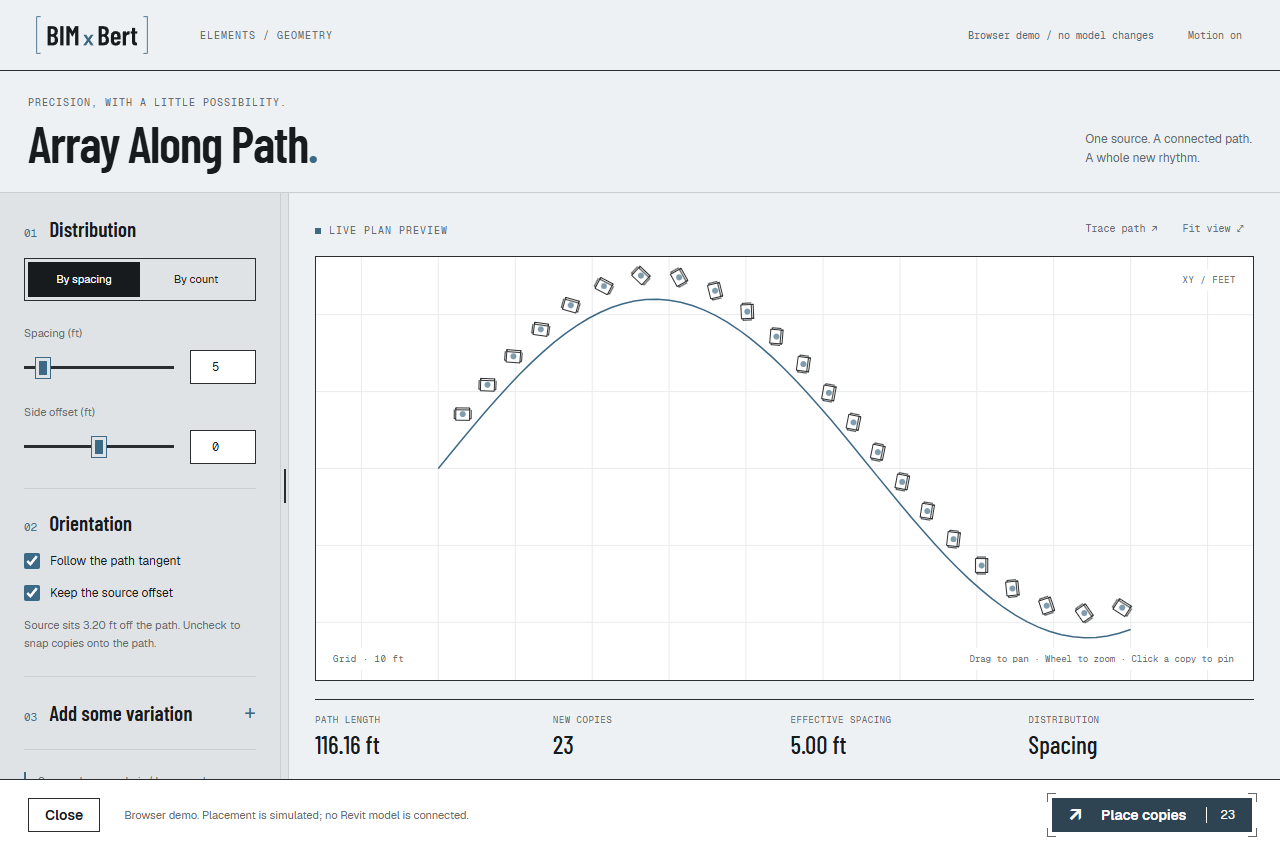
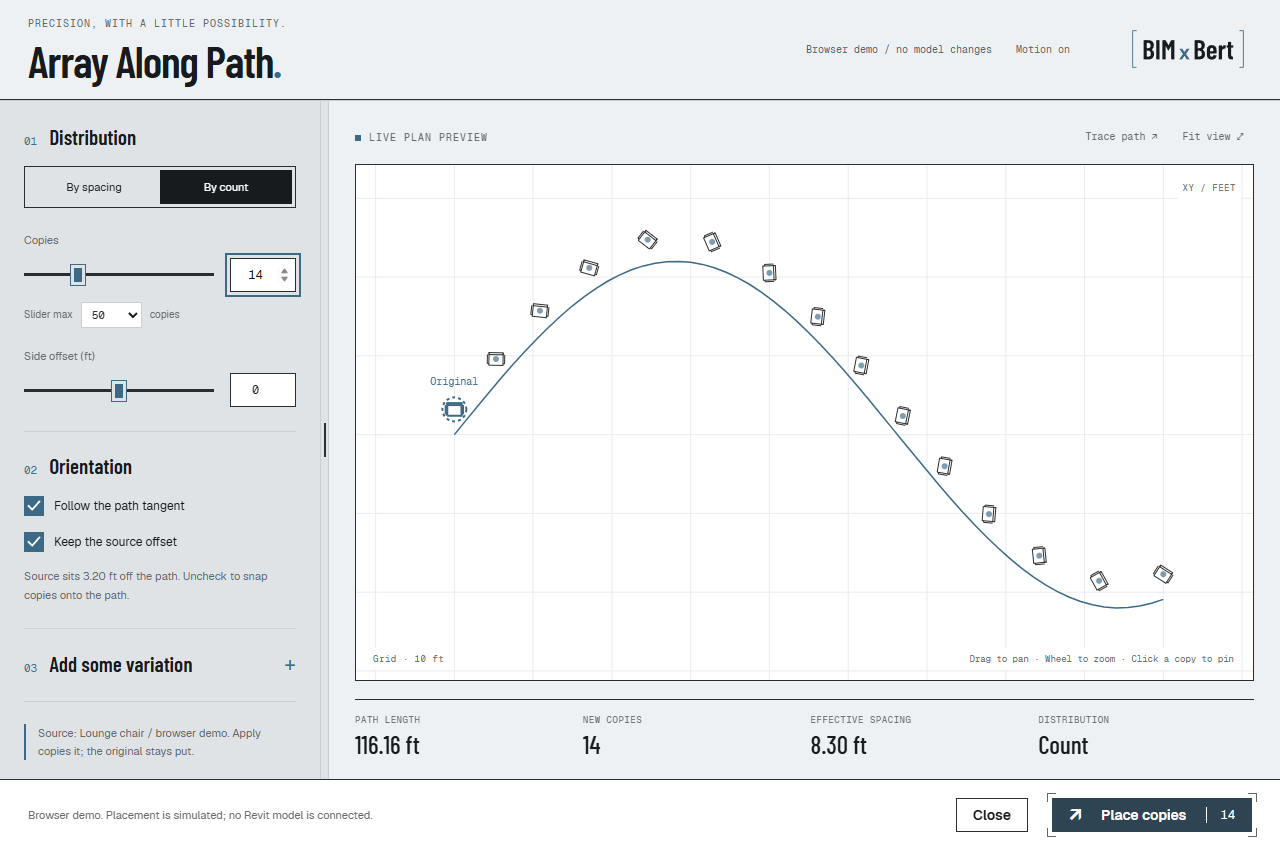
Apply Array Along Path layout and interaction markups

diff --git a/tests/test_array_along_path.py b/tests/test_array_along_path.py
@@ -116,7 +116,13 @@ const document = {getElementById: id => fields[id]};
 S.path = [[0,0,0],[20,0,0]]; S.source={anchor:[0,0,0],offset_vector:[0,2,0]}; buildCumdist();
 computePlacements(); assert.deepEqual(S.placements.map(p=>p.x),[5,10,15,20]);
 fields['mode-count'].checked=true; fields['in-spacing'].value='3'; computePlacements();
-assert.deepEqual(S.placements.map(p=>p.x),[10,20]);
+assert.equal(S.placements.length,3);
+S.placements.forEach((p,i)=>assert.ok(Math.abs(p.x-(i+1)*20/3)<1e-9));
+fields['in-spacing'].value='1'; computePlacements();
+assert.deepEqual(S.placements.map(p=>p.x),[20]);
+fields['in-spacing'].value='2000'; computePlacements();
+assert.equal(S.placements.length,2000);
+fields['in-spacing'].value='3';
 fields['chk-preserve'].checked=true; fields['in-rotjit'].value='30'; fields['in-posjit'].value='2';
 S.seed=42; computePlacements(); const first=JSON.stringify(S.placements); computePlacements();
 assert.equal(JSON.stringify(S.placements),first); S.seed=43; computePlacements();

diff --git a/docs/verification/array-along-path/README.md b/docs/verification/array-along-path/README.md
@@ -5,8 +5,8 @@ Date: 2026-10-02. Browser: Microsoft Edge driven by Playwright.
 This evidence covers the new tool's browser simulation and generated files.
 It does **not** establish live Revit placement or Undo behavior.
 
-- 319 repository tests passed; 9 Array Along Path tests were also rerun after
-  the final source-copy identification change.
+- Initial port: 319 repository tests passed. The 9 Array Along Path tests were
+  rerun after the markup revision, including 1/3/2000 new-copy counts.
 - 11 extension tests passed; 18 MCP server tests passed in an isolated environment
   with the server's declared dependencies (MCP 2.2.0).
 - Root bundle, toolbar spec, branch policy and safety validators passed.
@@ -16,10 +16,18 @@ It does **not** establish live Revit placement or Undo behavior.
 - Browser interactions checked: spacing/count, valid/invalid inputs, offsets,
   seeded scatter/re-roll, plan simulation, keyboard pane sizing/persistence,
   path replay, responsive layout, system reduced motion and explicit opt-in.
-  Narrow layout has no horizontal overflow at 390px. The synthetic source lies
-  at the first station, so its duplicate is excluded from the new-copy count.
+  Narrow layout has no horizontal overflow at 390px. In spacing mode, the
+  synthetic source's first-station duplicate is excluded from the new-copy count.
 - No client/project data appears in these images; geometry is the synthetic
   demonstration path and chair outline.
+- Markup revision: one compact header with the logo at upper right, Close next
+  to Place copies, a stationary original outline/label, and Copies instead of
+  stations in count mode. The count slider defaults to 50 and supports adjustable,
+  persisted limits; entering a larger count expands its range. Verified at
+  14/77/2000 copies, including lower-limit clamping and mode/reload behavior.
+  Both animated Orientation checkboxes passed pointer, Space-key and reduced-motion
+  checks. Original position/rotation remained fixed while those settings changed.
+  Refreshed images below show this revision. Live placement/Undo remains unverified.
 
 ![Desktop preview](desktop.png)
 

diff --git a/docs/handoffs/array-along-path-motion-2026-10-02.md b/docs/handoffs/array-along-path-motion-2026-10-02.md
@@ -16,6 +16,10 @@ Draft PR: [#10](https://github.com/robmintzes/formwork/pull/10).
   `.logs/array-motion-live-firm-before.json`. pyRevit Reload remains a human step.
 - HTML controls and preview use CSS/native Web Animations, with bounded stagger,
   mode-indicator travel, field reveal, re-roll feedback and explicit path tracing.
+  Markup revision: compact title/header with logo at upper right; adjacent Close
+  and Place copies actions; animated Orientation checkmarks; original outline
+  and label fixed at its actual anchor. By count now means new copies after the
+  path start; slider default 1–50 with adjustable, persisted maximum up to 2000.
   The ribbon launcher uses static 32px light/dark icons. `docs/design/motion.md`
   explains the platform boundary and Motion/GSAP recommendations.
 - Browser callbacks only accept plain placement data. The HTML closes before
@@ -73,3 +77,11 @@ Draft PR: [#10](https://github.com/robmintzes/formwork/pull/10).
   reran the 9 focused tests, sandbox validation and browser checks. Committed
   responsive screenshots in `docs/verification/array-along-path/`; the local
   demonstration video is `output/playwright/array-along-path-motion.webm`.
+- 2026-10-02: Applied Rob's two screenshot markups. Removed the extra tagline,
+  moved the logo/title/Close, added a fixed Original overlay and animated native
+  checkboxes. Changed count distribution to new copies after the path start;
+  range selector, typed-count expansion, persistence and overlap reporting.
+  Updated math checks passed (9 focused tests); Edge review passed at 1280/768/390,
+  including 2000 copies, keyboard operation and reduced motion. Refreshed evidence;
+  new local video `output/playwright/array-markups-motion.webm`. Sandbox regenerated.
+  User screenshots establish preview review, not successful placement/rollback/Undo.

diff --git a/docs/product/RELEASE_RECORD.md b/docs/product/RELEASE_RECORD.md
@@ -239,6 +239,8 @@ the source. Written into `formwork_engine/adapters/web_host.py` and
   changes reject a stale preview. A bounded Python plan validator rejects
   non-finite coordinates and excessive counts. Actual copied source IDs are
   identified among dependents. The preview excludes source-anchor duplicates.
+  The markup revision counts new copies after the path start, displays the original
+  at its fixed actual anchor, and supports an adjustable count-slider maximum.
 - **New:** opt-in generator adapter, default BIMxBert activation, generated
   Elements panel spec, original 32px icons, independent tool guide, CSP without
   inline scripts/styles, generated firm theme/assets, responsive/resizable panes,

diff --git a/docs/design/motion.md b/docs/design/motion.md
@@ -42,6 +42,8 @@ cost and maintainability should decide a later switch.
   user-triggered; nothing runs continuously while the modeler works.
 - Primary-action arrows and registration marks respond to hover and press.
   The label changes on submission, and browser simulation reports itself as such.
+- Orientation checkmarks draw/erase and their square controls briefly compress
+  and settle on change. Native checkbox semantics and keyboard operation remain.
 - Keyboard/pointer pane resizing persists per user; narrow windows stack preview
   and controls. Keyboard users can pan, zoom, fit and inspect the preview.
 
